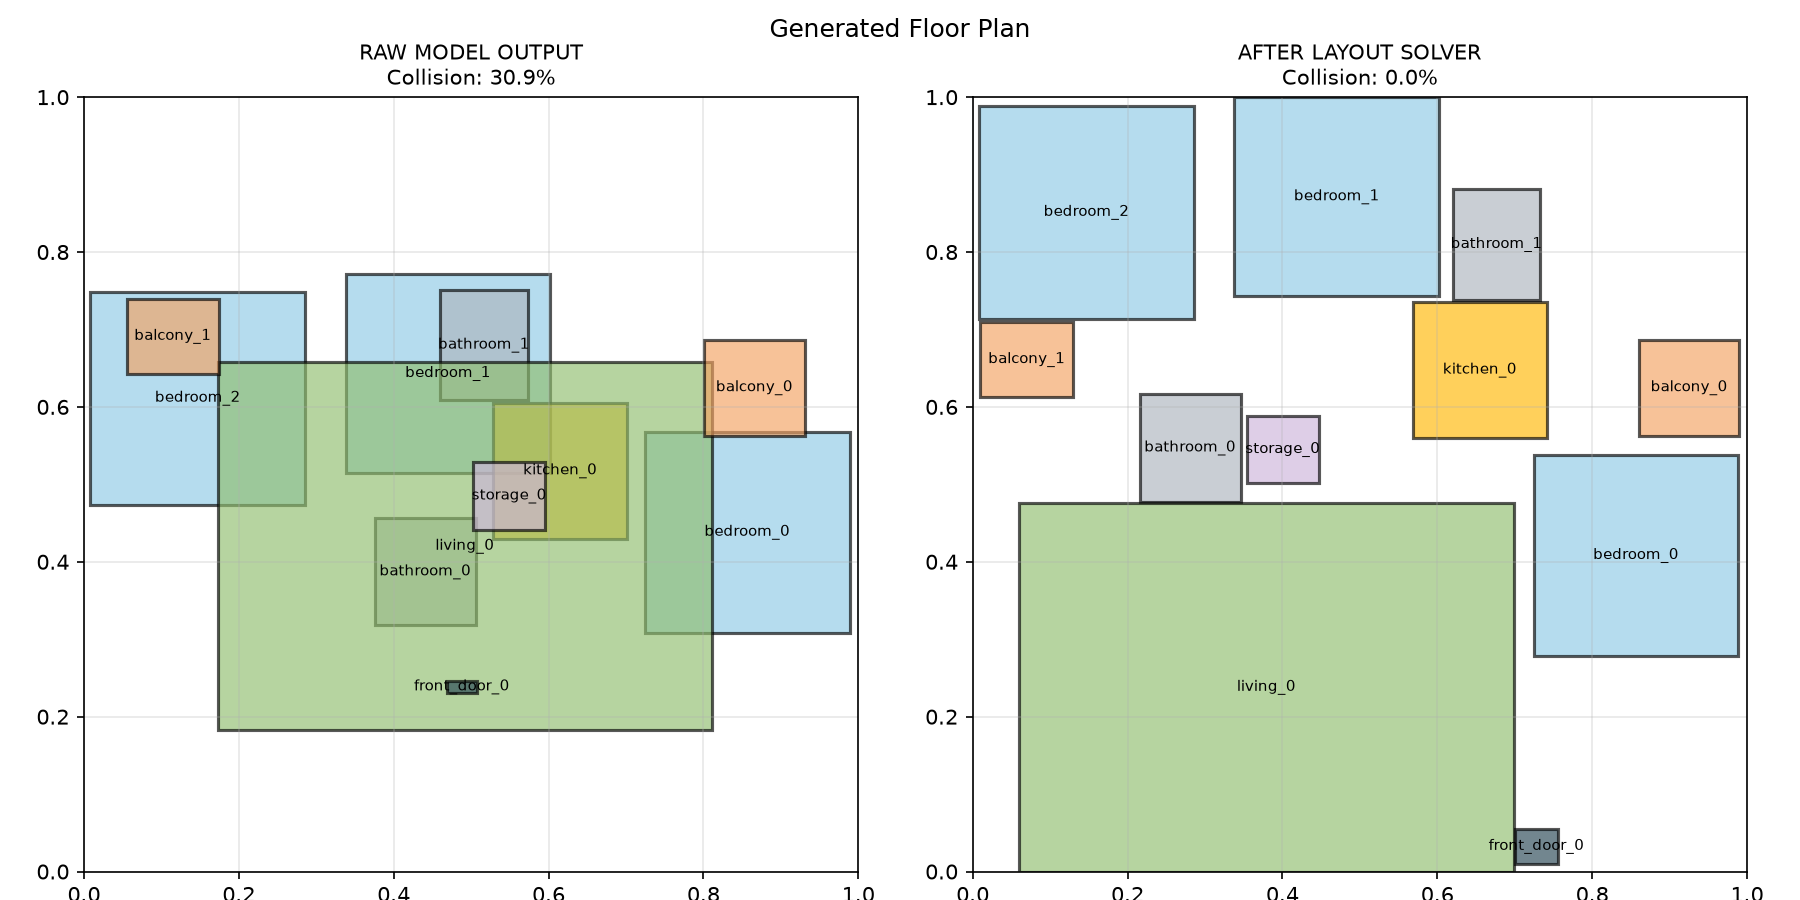
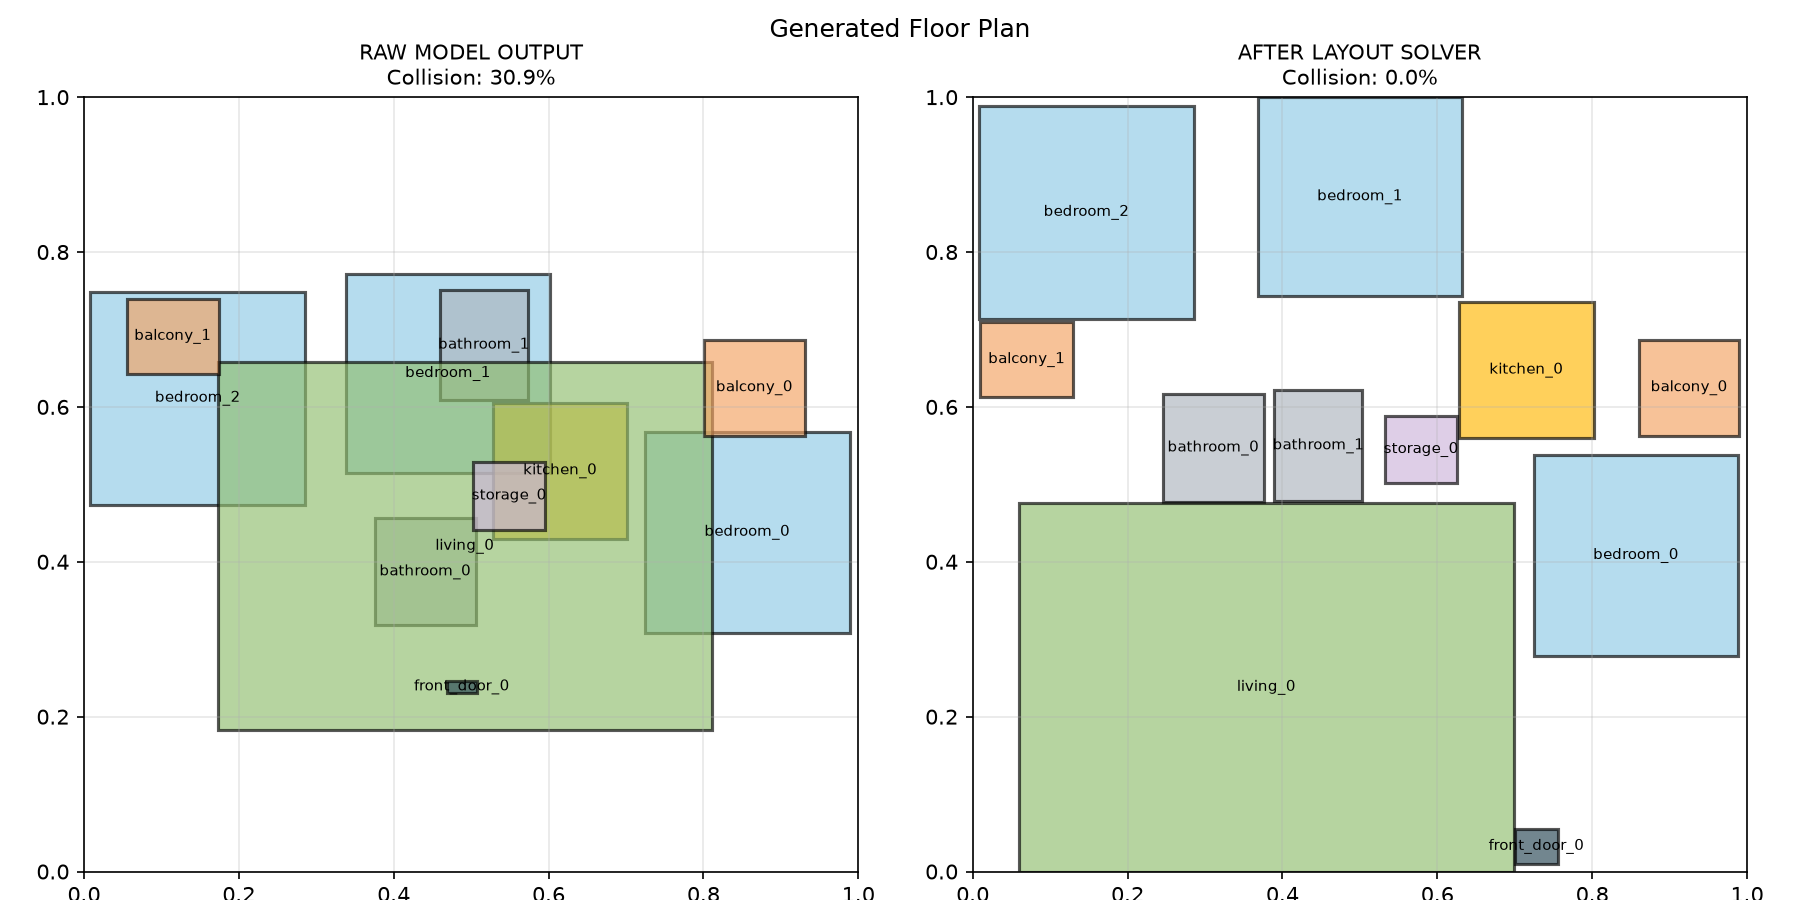
Add real house adjacency rules: en-suite bathrooms, shared hall bathroom, entrance to living room
Gap-closing alone wasn't enough - it pulled every room toward
whatever happened to be nearest, so a bathroom could end up snapped
to a balcony instead of its bedroom. Added explicit adjacency rules
instead of hoping proximity sorts it out:

 - front door always attaches to the living room / entrance hall
 - if bathrooms >= bedrooms, each bedroom gets its own en-suite
   bathroom, paired in order
 - otherwise (fewer bathrooms than bedrooms) all bathrooms are
   shared and attach to the living room / hall for central access
   instead of any single bedroom

Rooms with an assigned target now get direct "jump toward that
room" candidates during solving, not just local wandering - needed
because local steps alone got stuck behind other rooms and never
reached the correct target.

Verified: en-suite case (2 bed / 2 bath) - each bathroom now touches
its own paired bedroom. Shared case (3 bed / 2 bath) - both
bathrooms cluster next to the living room instead of any one
bedroom. Both still 0% collision, 0% boundary violations.

Changed region(s): [[0.6222, 0.0933, 0.9022, 0.56], [0.6844, 0.0933, 0.7156, 0.3422]]

diff --git a/python/app/training/geometry/_layout/_solver.py b/python/app/training/geometry/_layout/_solver.py
@@ -133,7 +133,55 @@ def _gap_to_nearest(boxes, i, ids):
     return best if best is not None else 0.0
 
 
-def _room_cost(boxes, i, room_types, original, ids, displacement_weight=1.8, gap_weight=0.0):
+def _gap_to_room(boxes, i, j):
+    """Boundary-to-boundary distance from room i to one specific room j."""
+    ax, ay, aw, ah = [float(v) for v in boxes[i]]
+    ax1, ay1, ax2, ay2 = ax - aw/2, ay - ah/2, ax + aw/2, ay + ah/2
+
+    bx, by, bw, bh = [float(v) for v in boxes[j]]
+    bx1, by1, bx2, by2 = bx - bw/2, by - bh/2, bx + bw/2, by + bh/2
+
+    dx = max(ax1 - bx2, bx1 - ax2, 0.0)
+    dy = max(ay1 - by2, by1 - ay2, 0.0)
+    return math.hypot(dx, dy)
+
+
+def _build_attach_map(room_types, ids):
+    """Decide which specific room each bathroom/front door should attach
+    to, so the layout follows real house conventions instead of just
+    clustering toward whatever happens to be nearest:
+
+      - front door always attaches to the living room / entrance hall.
+      - if there are at least as many bathrooms as bedrooms, each
+        bedroom gets its own en-suite bathroom (paired in order).
+      - otherwise bathrooms are shared, so they attach to the living
+        room / hall for central access instead of any one bedroom.
+    """
+    ordered = sorted(ids)
+    bedrooms = [i for i in ordered if int(room_types[i]) == 0]
+    baths = [i for i in ordered if int(room_types[i]) == 1]
+    doors = [i for i in ordered if int(room_types[i]) == 7]
+    living = [i for i in ordered if int(room_types[i]) == 3]
+
+    living_id = living[0] if living else None
+    attach = {}
+
+    ensuite = bool(bedrooms) and len(baths) >= len(bedrooms)
+    for k, bi in enumerate(baths):
+        if ensuite and k < len(bedrooms):
+            attach[bi] = bedrooms[k]
+        elif living_id is not None:
+            attach[bi] = living_id
+
+    for di in doors:
+        if living_id is not None:
+            attach[di] = living_id
+
+    return attach
+
+
+def _room_cost(boxes, i, room_types, original, ids, displacement_weight=1.8,
+                gap_weight=0.0, attach_map=None, attach_weight=0.0):
     t = int(room_types[i])
     b = boxes[i]
     cost = 0.0
@@ -183,9 +231,16 @@ def _room_cost(boxes, i, room_types, original, ids, displacement_weight=1.8, gap
             cost += 35.0 * min(ow / max(float(b[2]), 1e-6),
                                 oh / max(float(b[3]), 1e-6))
 
-    # Gap-closing: pull this room toward its nearest neighbor so the
-    # layout reads as one connected home instead of floating boxes.
-    if gap_weight:
+    # Gap-closing. Rooms with a specific attachment target (an en-suite
+    # bathroom's bedroom, a shared bathroom's or the front door's living
+    # room) are pulled toward exactly that room, not just whatever's
+    # closest - otherwise a bathroom could end up snapped to a balcony
+    # instead of its bedroom just because it happened to be nearer.
+    # Everything else still closes to its nearest neighbor.
+    target = attach_map.get(i) if attach_map else None
+    if target is not None and attach_weight:
+        cost += attach_weight * _gap_to_room(boxes, i, target)
+    elif gap_weight:
         cost += gap_weight * _gap_to_nearest(boxes, i, ids)
 
     return cost
@@ -244,16 +299,18 @@ def _relationship_cost(boxes, room_types, ids):
     return cost
 
 
-def _total_cost(boxes, room_types, original, ids, displacement_weight=1.8, gap_weight=0.0):
+def _total_cost(boxes, room_types, original, ids, displacement_weight=1.8,
+                 gap_weight=0.0, attach_map=None, attach_weight=0.0):
     value = sum(
-        _room_cost(boxes, i, room_types, original, ids, displacement_weight, gap_weight)
+        _room_cost(boxes, i, room_types, original, ids, displacement_weight,
+                   gap_weight, attach_map, attach_weight)
         for i in ids
     )
     value += 6.0 * _relationship_cost(boxes, room_types, ids)
     return value
 
 
-def _candidate_centers(box, room_type, living_center=None):
+def _candidate_centers(box, room_type, living_center=None, attach_center=None):
     cx, cy, w, h = [float(v) for v in box]
     candidates = [(cx, cy)]
 
@@ -277,23 +334,41 @@ def _candidate_centers(box, room_type, living_center=None):
             (lx, ly - 0.28), (lx, ly + 0.28),
         ]
 
+    # A room with a specific attachment target (an en-suite bathroom's
+    # bedroom, a shared bathroom's or the door's living room) needs a
+    # way to jump toward THAT room directly - local steps alone can get
+    # stuck behind other rooms and never reach it.
+    if attach_center is not None:
+        tx, ty = attach_center
+        for r in (0.12, 0.20, 0.30):
+            candidates += [
+                (tx - r, ty), (tx + r, ty),
+                (tx, ty - r), (tx, ty + r),
+            ]
+
     return candidates
 
 
 def _place_one(boxes, i, room_types, original, ids, living_center,
-                displacement_weight=1.8, gap_weight=0.0):
+                displacement_weight=1.8, gap_weight=0.0,
+                attach_map=None, attach_weight=0.0):
     current = boxes[i].clone()
     best = current.clone()
-    best_cost = _total_cost(boxes, room_types, original, ids, displacement_weight, gap_weight)
+    best_cost = _total_cost(boxes, room_types, original, ids, displacement_weight,
+                             gap_weight, attach_map, attach_weight)
 
     t = int(room_types[i])
-    for cx, cy in _candidate_centers(current, t, living_center):
+    target = attach_map.get(i) if attach_map else None
+    attach_center = _center(boxes[target]) if target is not None else None
+
+    for cx, cy in _candidate_centers(current, t, living_center, attach_center):
         trial = boxes.clone()
         trial[i, 0] = cx
         trial[i, 1] = cy
         trial[i] = _clamp_box(trial[i].unsqueeze(0))[0]
 
-        cost = _total_cost(trial, room_types, original, ids, displacement_weight, gap_weight)
+        cost = _total_cost(trial, room_types, original, ids, displacement_weight,
+                            gap_weight, attach_map, attach_weight)
         if cost + 1e-7 < best_cost:
             best_cost = cost
             best = trial[i].clone()
@@ -356,6 +431,11 @@ def refine_single_layout(
         li = max(living_ids, key=lambda i: float(boxes[i, 2] * boxes[i, 3]))
         living_center = _center(boxes[li])
 
+    # Decide real house adjacency once: which bedroom (if any) each
+    # bathroom is en-suite to, and that the front door leads into the
+    # living room / entrance hall.
+    attach_map = _build_attach_map(room_types, ids)
+
     boxes = _enforce_exterior(boxes, room_types, ids)
 
     # High-priority rooms settle first, then smaller/support rooms.
@@ -371,7 +451,8 @@ def refine_single_layout(
 
         for i in ids:
             changed |= _place_one(
-                boxes, i, room_types, original, ids, living_center
+                boxes, i, room_types, original, ids, living_center,
+                attach_map=attach_map, attach_weight=20.0,
             )
 
         boxes = _enforce_exterior(boxes, room_types, ids)
@@ -436,6 +517,7 @@ def refine_single_layout(
             changed |= _place_one(
                 boxes, i, room_types, original, ids, living_center,
                 displacement_weight=0.15, gap_weight=90.0,
+                attach_map=attach_map, attach_weight=140.0,
             )
 
         boxes = _enforce_exterior(boxes, room_types, ids)
